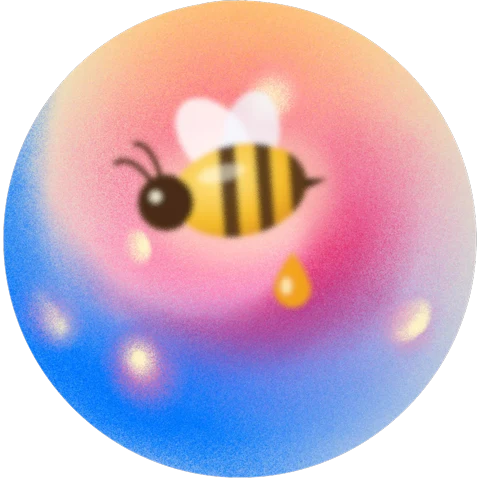
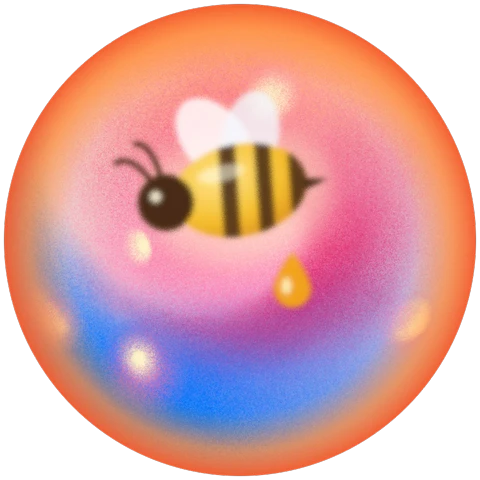
Explore orbs: bigger day ring on Cycle guide; every orb gets a grainy airbrushed rim in its own colour like her heart orb, with a soft matching glow; pill dots match the rims

diff --git a/sw.js b/sw.js
@@ -1,5 +1,5 @@
 // Offline cache for the app shell. Bump VERSION when shipping changes.
-const VERSION = 'uts-v1364';
+const VERSION = 'uts-v1366';
 const SHELL = ['./', './index.html', './js/lotus.js', './styles.css', './manifest.json', './icons/icon-192.png', './icons/icon-512.png', './icons/apple-touch-icon.png', './icons/icon-64.png', './icons/icon-32.png', './icons/icon-maskable-512.png', './fonts/ballet-latin.woff2', './fonts/ballet-latin-ext.woff2',
   './js/app.js', './js/data.js', './js/cycle.js', './js/legal.js', './js/i18n.js', './js/icons.js', './js/cosmic.js', './js/astro.js', './js/moonguide.js', './js/moon3d.js', './js/figure.js', './js/figure3d.js', './js/torso.js', './js/torso3d.js', './js/photos.js', './js/seasonal.js', './js/world.js', './js/ground.js', './js/athlete.js', './js/bodymap.js', './js/molecules.js', './js/welcome3d.js', './js/teacup3d.js', './js/sfx.js', './js/ticketmotion.js', './js/sun.js', './js/account.js', './js/config.js', './images/planet.jpg', './images/gate-rose.webp', './images/lotus-menstrual.webp', './images/lotus-follicular.webp', './images/lotus-ovulatory.webp', './images/lotus-luteal.webp', './images/breath-bud.webp', './images/breath-bloom.webp', './images/period.png', './images/partner-cinema.webp', './images/partner-hands.jpg', './images/ground-roots.jpg', './images/ground/golden-roots.webp', './images/pixel-aura-0.png', './images/pixel-aura-1.png', './images/pixel-aura-2.png', './images/pixel-aura-3.png', './images/sun-moon.webp', './images/sun-moon.mp4', './images/tea-ginger.webp', './images/sun-moon-poster.webp', './images/rhythm-sun.webp', './images/move-stardust.mp4', './images/move-stardust.webp', './images/move-meditate.webp', './images/move-walk.webp', './images/move-yoga.webp', './images/move-sport.webp', './images/move-pilates.webp', './images/move-hiit.webp', './images/move-lift.webp', './images/season-veg.webp', './images/season-fruit.webp', './images/stress-meditate.mp4', './images/stress-meditate.webp', './images/stress-breathe.mp4', './images/stress-breathe.webp', './images/forest-path.jpg', './images/welcome-forest.jpg', './images/welcome-leaves.webp', './images/welcome-forest-bare.jpg', './images/intro-forest.jpg', './images/forest-calm.jpg', './images/tile-meditate.webp', './images/tile-ground.webp', './images/tile-walk.webp', './images/tile-yoga.webp', './images/tile-sport.webp', './images/tile-pilates.webp', './images/tile-hiit.webp', './images/tile-lift.webp', './images/purpose-body.jpg', './images/purpose-conceive.jpg', './images/purpose-after.jpg', './images/purpose-after-feet.jpg', './images/period-food.webp', './images/plate.webp', './images/read-lilies.webp', './images/read-seasons.webp', './models/body2.glb', './models/teacup.glb', './models/matcha.glb', './models/greentea.glb', './images/cup-matcha.webp', './models/soup.glb', './images/dish-soup.webp', './models/pho.glb', './images/dish-pho.webp', './models/miso.glb', './images/dish-miso.webp', './models/stew.glb', './images/dish-stew.webp', './models/veg-plate.glb', './models/salad-a.glb', './images/dish-salad-a.webp', './models/salad-b.glb', './images/dish-salad-b.webp', './images/dish-veg.webp', './models/taco.glb', './images/dish-taco.webp', './models/gyro.glb', './images/dish-gyro.webp', './models/marrow.glb', './images/dish-marrow.webp', './models/curry.glb', './images/dish-curry.webp', './models/steak.glb', './images/dish-steak.webp', './models/sweet-potato.glb', './images/dish-sweet-potato.webp', './models/mint-tea.glb', './images/cup-mint.webp', './models/chamomile.glb', './images/cup-chamomile.webp', './models/hibiscus.glb', './models/latte.glb', './models/coffee.glb', './models/broth.glb', './models/cortisol.glb', './images/cortisol-mol.webp', './models/moon.glb', './images/cup-chai.webp', './images/cup-hibiscus.webp', './images/cup-glass.webp', './sounds/forest-stream.m4a', './images/herbs/astragalus.svg', './images/herbs/red-dates.svg', './images/herbs/ginger.svg', './images/herbs/clove.svg', './images/herbs/cinnamon.svg', './images/herbs/goji.svg', './images/herbs/reishi.svg', './images/herbs/chaga.svg', './images/herbs/he-shou-wu.svg', './images/drinks/broth.svg', './images/drinks/cacao.svg', './images/drinks/chamomile-tea.svg', './images/drinks/coconut-water.svg', './images/drinks/coffee.svg', './images/drinks/ginger-tea.svg', './images/drinks/green-juice.svg', './images/drinks/hibiscus-tea.svg', './images/drinks/iced-matcha.svg', './images/drinks/lemon-water.svg', './images/drinks/matcha-latte.svg', './images/drinks/matcha.svg', './images/drinks/mineral-water.svg', './images/drinks/nettle-tea.svg', './images/drinks/raspberry-leaf-tea.svg', './images/drinks/red-date-tea.svg', './images/emoji/iron-ore.svg', './images/emoji/log-cramps.svg', './images/emoji/log-pelvic-pain.svg', './images/emoji/log-joint-pain.svg', './images/emoji/log-constipation.svg', './images/emoji/log-acne.svg', './images/emoji/log-brain-fog.svg', './images/emoji/log-unusual-colour.svg', './images/emoji/amla.svg', './images/emoji/apricot.svg', './images/emoji/artichoke.svg', './images/emoji/asian-pear.svg', './images/emoji/bamboo-shoot.svg', './images/emoji/bean-sprouts.svg', './images/emoji/bitter-gourd.svg', './images/emoji/black-trumpet.svg', './images/emoji/blackberry.svg', './images/emoji/bottle-gourd.svg', './images/emoji/brussels-sprouts.svg', './images/emoji/burdock.svg', './images/emoji/button-mushroom.svg', './images/emoji/cardoon.svg', './images/emoji/cassava.svg', './images/emoji/cauliflower.svg', './images/emoji/celeriac.svg', './images/emoji/chanterelle.svg', './images/emoji/chard.svg', './images/emoji/chayote.svg', './images/emoji/cloudberry.svg', './images/emoji/cranberry.svg', './images/emoji/currants.svg', './images/emoji/custard-apple.svg', './images/emoji/daikon.svg', './images/emoji/dandelion.svg', './images/emoji/dragon-fruit.svg', './images/emoji/drumsticks.svg', './images/emoji/elderberry.svg', './images/emoji/enoki.svg', './images/emoji/feijoa.svg', './images/emoji/fiddlehead.svg', './images/emoji/green-plum.svg', './images/emoji/guava.svg', './images/emoji/horseradish.svg', './images/emoji/jackfruit.svg', './images/emoji/jamun.svg', './images/emoji/jerusalem-artichoke.svg', './images/emoji/kale.svg', './images/emoji/king-oyster.svg', './images/emoji/kohlrabi.svg', './images/emoji/korean-melon.svg', './images/emoji/leek.svg', './images/emoji/lingonberry.svg', './images/emoji/lions-mane.svg', './images/emoji/long-beans.svg', './images/emoji/loquat.svg', './images/emoji/lotus-root.svg', './images/emoji/lychee.svg', './images/emoji/mangosteen.svg', './images/emoji/morel.svg', './images/emoji/okra.svg', './images/emoji/oyster-mushroom.svg', './images/emoji/papaya.svg', './images/emoji/parsnip.svg', './images/emoji/passion-fruit.svg', './images/emoji/persimmon.svg', './images/emoji/plum.svg', './images/emoji/porcini.svg', './images/emoji/prickly-pear.svg', './images/emoji/rambutan.svg', './images/emoji/raspberry.svg', './images/emoji/ridge-gourd.svg', './images/emoji/rosehip.svg', './images/emoji/salsify.svg', './images/emoji/samphire.svg', './images/emoji/sea-buckthorn.svg', './images/emoji/shiitake.svg', './images/emoji/spring-onion.svg', './images/emoji/starfruit.svg', './images/emoji/tamarind.svg', './images/emoji/taro.svg', './images/emoji/turnip.svg', './images/emoji/watercress.svg', './images/emoji/yuzu.svg', './images/emoji/almonds.webp', './images/emoji/asparagus.webp', './images/emoji/beetroot.webp', './images/emoji/black-sesame.webp', './images/emoji/cardamom.webp', './images/emoji/chia.webp', './images/emoji/cinnamon.webp', './images/emoji/fennel-seeds.webp', './images/emoji/fennel.webp', './images/emoji/fig.webp', './images/emoji/flaxseed.webp', './images/emoji/goji.webp', './images/emoji/hemp.webp', './images/emoji/liver.webp', './images/emoji/pomegranate.webp', './images/emoji/pumpkin-seeds.webp', './images/emoji/quince.webp', './images/emoji/radish.webp', './images/emoji/red-dates.webp', './images/emoji/rhubarb.webp', './images/emoji/sesame.webp', './images/emoji/sunflower-seeds.webp', './images/emoji/tahini.webp', './images/emoji/turmeric.webp', './images/emoji/walnuts.webp', './images/emoji/black-seed-oil.svg', './images/emoji/cacao.svg', './images/emoji/water.svg', './images/emoji/black-pepper.svg', './images/emoji/cumin.svg', './images/emoji/curry.svg', './images/emoji/dates.svg', './images/emoji/maple-syrup.svg', './images/emoji/mayonnaise.svg', './images/emoji/mustard.svg', './images/emoji/nutmeg.svg', './images/emoji/nutritional-yeast.svg', './images/emoji/paprika.svg', './images/emoji/tamari.svg', './images/emoji/toothpick.svg', './images/emoji/vanilla.svg', './images/bg/mist.webp', './images/bg/arch.webp', './images/bg/arch-band.webp', './images/bg/frame-band.webp', './images/bg/frame-top.webp', './images/bg/frame-bottom.webp', './images/bg/frame-side.webp', './images/bg/leaves.webp', './images/bg/lotus.webp', './images/bg/lotus-petals.webp', './images/bg/lotus-lines.webp', './images/bg/swirls.webp', './images/tea-glow-bg.webp', './images/herbs/astragalus-real.webp', './images/herbs/clove-real.webp', './images/herbs/chaga-real.webp', './images/herbs/reishi-real.webp', './images/herbs/he-shou-wu-photo.webp', './images/sf/astragalus.webp', './images/sf/elderberries.webp', './images/sf/walnuts.webp', './images/sf/iron.webp', './images/drinks/cup-covered.svg', './images/pets/bunny.svg', './images/pets/kitty.svg', './images/pets/bear.svg', './images/pets/panda.svg', './images/pets/fox.svg', './images/pets/frog.svg', './images/pets/chick.svg', './images/pets/hamster.svg'];
 

diff --git a/js/app.js b/js/app.js
@@ -2075,8 +2075,10 @@ function exploreGrid(info) {
     ['relief', 'heart', 'Balance hormones', 'Step by step, fundamentals first', 'images/xb/relief.webp'],
     ['tea', 'cup', 'Tea guide', 'For every need', 'images/xb/tea.webp'], ['breathe', 'leaf', 'Breathe', 'Meditate & breathe', 'images/xb/breathe.webp']];
   // her painted orbs, whole and frameless, in an aligned two-column grid (the fifth centred); the name sits under each in a white pill with a colour dot
-  const dot = ['#e9a23a', '#e6567d', '#a88ad8', '#8db35a', '#7a8fe0'];
-  const bub = ([to, ic, t, sub, img, vid], i) => `<button class="xb" data-action="${to === 'super' ? 'superGo' : 'nav'}" data-to="${to}" style="--i:${i};--dot:${dot[i]}" aria-label="${t}: ${sub}"><span class="xb-o">${vid ? `<video class="dpt-vid" src="${vid}" poster="${img}" muted loop playsinline preload="none" aria-hidden="true"></video>` : `<img src="${img}" alt="" loading="lazy">`}</span><span class="xb-t">${t}</span></button>`;
+  const dot = ['#f2552c', '#e01e5f', '#f0185a', '#ea7a14', '#6a3ee0'];
+  // each orb's painted rim colour, which also glows softly around it
+  const glow = ['#ff8a3d', '#f2477a', '#f0185a', '#f6a12e', '#8a5cf0'];
+  const bub = ([to, ic, t, sub, img, vid], i) => `<button class="xb" data-action="${to === 'super' ? 'superGo' : 'nav'}" data-to="${to}" style="--i:${i};--dot:${dot[i]};--glow:${glow[i]}" aria-label="${t}: ${sub}"><span class="xb-o">${vid ? `<video class="dpt-vid" src="${vid}" poster="${img}" muted loop playsinline preload="none" aria-hidden="true"></video>` : `<img src="${img}" alt="" loading="lazy">`}</span><span class="xb-t">${t}</span></button>`;
   return `<div class="xp3">${tiles.map(bub).join('')}</div>`;
 }
 // Home: today's habits as a cute tick list; her phase's habits first, a little sprout that grows leaves as she ticks.

diff --git a/styles.css b/styles.css
@@ -8388,7 +8388,7 @@ img[src$="read-lilies.webp"] { object-fit: contain !important; object-position: 
 .xb:last-child:nth-child(odd) { grid-column: 1 / -1; }
 .xb-o { position: relative; width: min(152px, 84%); aspect-ratio: 1; animation: xbFloat 7s ease-in-out infinite; transition: transform .45s cubic-bezier(.2,.8,.2,1); }
 .xb:last-child:nth-child(odd) .xb-o { width: min(152px, calc(42% - 6px)); }
-.xb-o img, .xb-o video { position: absolute; inset: 0; width: 100%; height: 100%; object-fit: contain; filter: saturate(1.15) contrast(1.05) drop-shadow(0 16px 18px rgba(60,40,50,.22)); }
+.xb-o img, .xb-o video { position: absolute; inset: 0; width: 100%; height: 100%; object-fit: contain; filter: saturate(1.12) contrast(1.04) drop-shadow(0 0 14px color-mix(in srgb, var(--glow) 55%, transparent)) drop-shadow(0 16px 18px rgba(60,40,50,.2)); }
 .xb-t { display: inline-flex; align-items: center; gap: 8px; white-space: nowrap; padding: 10px 17px 10px 14px; border-radius: 999px;
   background: rgba(255,255,255,.9); -webkit-backdrop-filter: blur(10px); backdrop-filter: blur(10px); color: #20301a; font: 500 15px/1 Outfit, sans-serif; letter-spacing: .005em;
   box-shadow: 0 0 0 1px rgba(32,48,26,.07), 0 8px 18px -10px rgba(32,48,26,.4); transition: transform .45s cubic-bezier(.2,.8,.2,1); }
